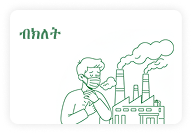
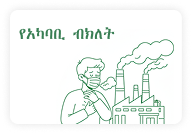
Update the amharic card

Changed region(s): [[0.0938, 0.209, 0.3438, 0.2985], [0.375, 0.1791, 0.5938, 0.2985]]

diff --git a/lib/app/modules/home/views/home_view.dart b/lib/app/modules/home/views/home_view.dart
@@ -23,14 +23,11 @@ class HomeView extends GetView<HomeController> {
     final lang = Get.locale?.languageCode ?? 'en';
     if (lang == 'om') return "assets/oromo_$baseName.png";
     if (lang == 'so') return "assets/somali_$baseName.png";
-    if (lang == 'am') {
-      if (baseName == 'pollution' || baseName == 'sound') {
-        return "assets/amharic_$baseName.png";
-      }
+    if (lang == 'am') return "assets/amharic_$baseName.png";
+      
       return "assets/english_$baseName.png";
-    }
+    
     // Fallback to english for any other language or missing localized asset.
-    return "assets/english_$baseName.png";
   }
 
   // Carousel page controller

diff --git a/lib/app/modules/report/views/report_view.dart b/lib/app/modules/report/views/report_view.dart
@@ -266,7 +266,7 @@ class _ReportViewState extends State<ReportView> {
                                 const SizedBox(height: 8),
                                 TextButton(
                                   onPressed: controller.fetchSoundAreas,
-                                  child: const Text('Retry'),
+                                  child:  Text('Retry'.tr),
                                 ),
                               ],
                             );

diff --git a/lib/app/modules/signup/controllers/signup_otp_controller.dart b/lib/app/modules/signup/controllers/signup_otp_controller.dart
@@ -73,8 +73,8 @@ class SignupOtpController extends GetxController {
   Future<void> verifyOtp() async {
     if (code.value.length < 6) {
       _showErrorDialog(
-        'Incomplete OTP',
-        'Please enter the complete 6-digit OTP code',
+        'Incomplete OTP'.tr,
+        'Please enter the complete 6-digit OTP code'.tr,
       );
       return;
     }
